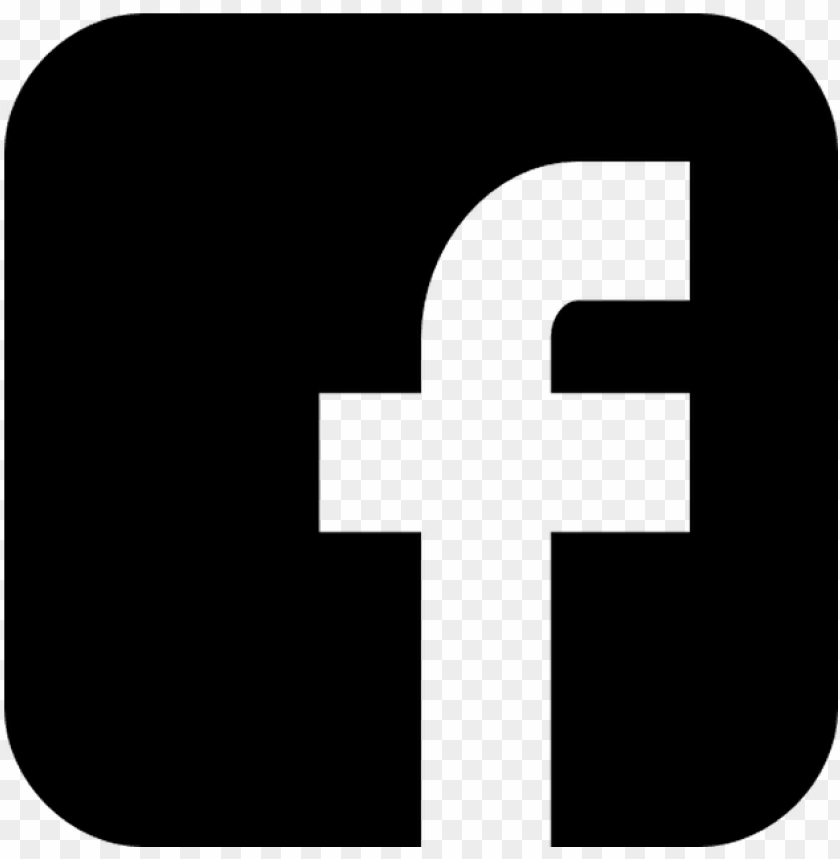
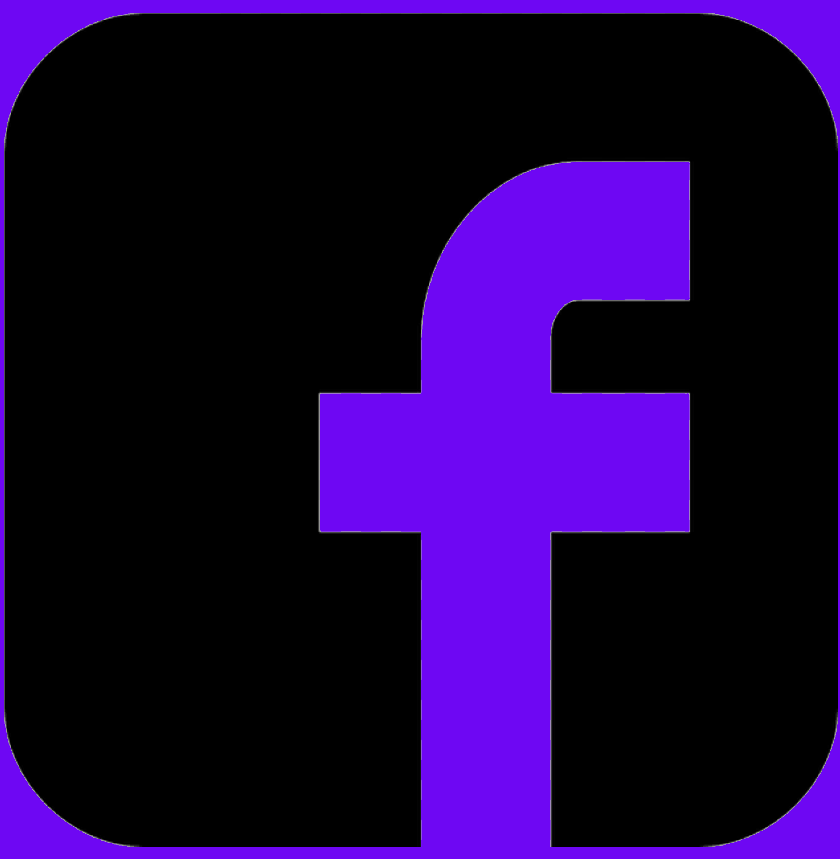
Update: footer and socials

Changed region(s): [[0.0, 0.0, 1.0, 1.0]]

diff --git a/components/Socials.js b/components/Socials.js
@@ -6,13 +6,13 @@ import linkedin from '../assets/linkedin.png';
 import facebook from '../assets/FBBlack.png';
 import twitter from '../assets/twitter.png';
 import instagram from '../assets/instagram.png';
-import pintrest from '../assets/pintrest.jpeg';
+import pintrest from '../assets/pintrest2.png';
 import wordpress from '../assets/wordpress.png';
+import mail from '../assets/mail.png';
 
 const Socials = () => {
   return (
     <>
-    <h1 className={styles.socialTitle}>Social Media Links:</h1>
     <div className={styles.socialContainer}>
       <div className={styles.social}>
         <Tooltip title="GitHub" arrow>
@@ -48,6 +48,11 @@ const Socials = () => {
         <Tooltip title="WordPress" arrow>
           <a href="https://bhattibytes.wordpress.com/" target="_blank" rel="noopener noreferrer">
             <Image src={wordpress} alt="wordpress" height={30} width={30}/>
+          </a>
+        </Tooltip>
+        <Tooltip title="Email" arrow>
+          <a href="mailto:bhattibytes@gmail.com" target="_blank" rel="noopener noreferrer">
+            <Image src={mail} alt="email" height={32} width={30}/>
           </a>
         </Tooltip>
       </div>

diff --git a/pages/index.js b/pages/index.js
@@ -22,6 +22,8 @@ export default function Home() {
           <h2 className={styles.headline}>Full Stack Software Engineer, Product Engineer & Systems Integrator</h2>
           <p style={{ fontSize: '20px'}}>I love solving problems with code to build great products.</p>
         </center>
+        <br/>
+        <br/>
         <center><Image className={styles.advatar} src={advatar} alt="developer advatar" height="250px" width="250px"/></center>
         <center><Image className={styles.devices} src={devices} alt="developer advatar" height="500px" width="750px"/></center>
         <section className={styles.section}>
@@ -93,8 +95,15 @@ export default function Home() {
         <center>
           <h1>My Recent Work</h1>
           <h3>Here are a few projects of mine...</h3>
+          <hr className={styles.seperator2}></hr>
+          <br/>
+          <br/>
           <Work />
         </center>
+        <br/>
+        <br/>
+        <br/>
+        <br/>
         <Testimonials />
       </main>
       <Footer/>

diff --git a/components/Work.js b/components/Work.js
@@ -37,7 +37,7 @@ export default function Work() {
                   image={hover && id == work.id ? work.black : work.imgURL}
                 />
                 { hover && id == work.id ?
-                <div style={{ position: "absolute", color: "white", top: "2350px" }}>
+                <div style={{ position: "absolute", color: "white", top: "2500px" }}>
                   <center style={{ color: "white" }}>
                     <CardContent style={{ color: "white" }}>
                     <Typography gutterBottom variant="h5" component="div">

diff --git a/styles/Home.module.css b/styles/Home.module.css
@@ -17,6 +17,12 @@
   box-shadow: 2px 2px #5BE9B9;
 }
 
+.seperator2 {
+  width: 50%;
+  border: 1px solid black;
+  box-shadow: 2px 2px #5BE9B9;
+}
+
 .carousWrapper {
   width: 100%;
 }
@@ -304,13 +310,14 @@
 
 .footer {
   display: flex;
+  flex-direction: column;
   flex: 1;
   padding: 2rem 0;
   border-top: 1px solid white;
   justify-content: center;
   align-items: center;
   color: white;
-  height: 150px; 
+  height: 200px; 
   width: 100%;
   background-color: #6e07f3;
   background-position: 0% 0%;

diff --git a/components/Footer.js b/components/Footer.js
@@ -1,5 +1,6 @@
 import styles from '../styles/Home.module.css'
 import Image from 'next/image'
+import Socials from './Socials';
 
 const Footer = () => {
 
@@ -9,11 +10,11 @@ const Footer = () => {
       <span>
         <Image src="/vercel.svg" alt="Vercel Logo" width={72} height={16}/>
       </span>
-      &nbsp;
       <p>
       &nbsp;
-      Handcratfed By: Jason Bhatti aka BhattiBytes
+      Handcratfed by Jason Bhatti aka BhattiBytes
       </p>
+      <Socials />
     </footer>
   )
 

diff --git a/pages/About.js b/pages/About.js
@@ -40,9 +40,6 @@ const About = () => {
           <a href="/Testimonials.pdf" alt="Testimonials from Hack Reactor" target="_blank" rel="noopener noreferrer">
             <h1>View Hack Reactor Testimonials</h1>
           </a>
-          <h2>Let's Connect!</h2>
-          <Socials/>
-          <a href="mailto:bhattibytes@gmail.com"><h3 style={{marginBottom: "80px"}}>Email Me</h3></a>
         </div>
       <Footer />
     </>
